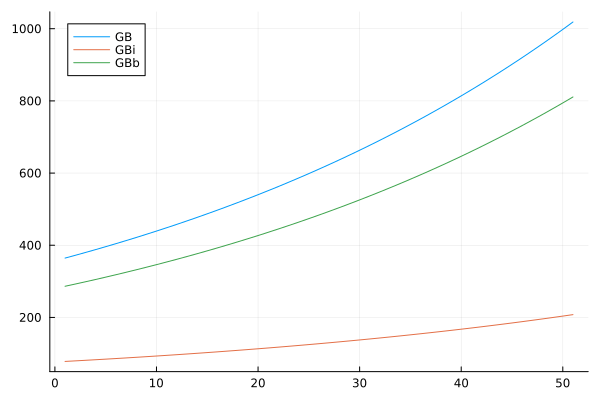
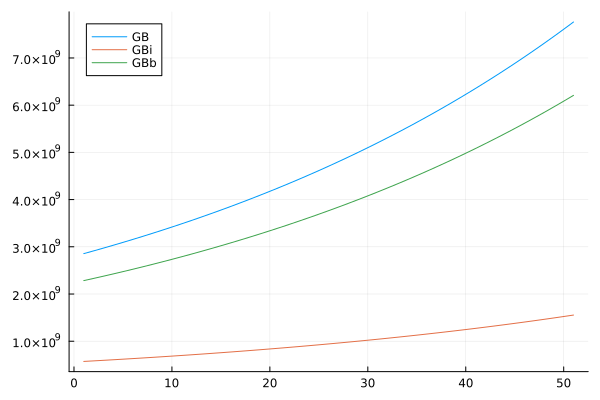
ver. 0.2.3

diff --git a/README.md b/README.md
@@ -1,7 +1,7 @@
 
 **汎用的なSFCモデルを目指す**
 
-- [課題](#課題)
+- [課題リスト。再現したいができていない性質。](#課題リスト再現したいができていない性質)
 - [TEM](#tem)
 - [BSM](#bsm)
 - [式一覧](#式一覧)
@@ -9,8 +9,8 @@
 - [再現されるか確かめたい現象](#再現されるか確かめたい現象)
 - [政策の変化に対してどう反応するか](#政策の変化に対してどう反応するか)
 
-# 課題
-政府債務残高対GDP比が大きすぎる問題。資産への税率が低い？キャピタルゲインへの税率が低い？投資家の消費性向が低い？
+# 課題リスト。再現したいができていない性質。
+- 政府債務残高対GDP比が大きすぎる問題。資産への税率が低い？キャピタルゲインへの税率が低い？投資家の消費性向が低い？
 
 # TEM
 |                            | 労働者(経常)  | 労働者(資本)  |   投資家(経常)    |   投資家(資本)   |  企業(経常)   |   企業(資本)   |   民間金融機関    |     統合政府     | 合計 |
@@ -78,8 +78,9 @@
 - $T_{af}=\epsilon_6K_{f-1}$
 - $T_a=T_{aw}+T_{ai}+T_{af}$
 - $P=C+C_a+G+I-W_f-T_v-T_{ff}-T_{af}-r_LL_{f-1}$
-- $P_i=\{\zeta_1(P-I)+\zeta_2(M_{f-1}-L_{f-1})\}\frac{E_{i-1}}{E_{-1}}$
-- $P_b=\{\zeta_1(P-I)+\zeta_2(M_{f-1}-L_{f-1})\}\frac{E_{b-1}}{E_{-1}}$
+- $TD = \zeta_1(P-I)+\zeta_2(M_{f-1}-L_{f-1})$
+- $P_i=TD\frac{E_{i-1}}{E_{-1}}$
+- $P_b=TD\frac{E_{b-1}}{E_{-1}}$
 - $P_f=P-P_i-P_b$
 - $IT=\theta_1 P_b + \theta_2 NL_{b-1}$
 - $T_{ii}=\epsilon_4(P_i+IT+r_{GB}GB_{i-1})$
@@ -130,7 +131,7 @@ $$
 \end{pmatrix}
 \begin{pmatrix}
   0 \\
-  \frac{\zeta(P_{-1}-I_{-1})}{E_{-1}} \\
+  \frac{TD}{E_{-1}} \\
   r_{GB}
 \end{pmatrix}V_i^e
 $$
@@ -158,7 +159,7 @@ $$
   \lambda_{51} & \lambda_{52}
 \end{pmatrix}
 \begin{pmatrix}
-  \frac{\zeta(P_{-1}-I_{-1})}{E_{-1}} \\
+  \frac{TD}{E_{-1}} \\
   r_{GB}
 \end{pmatrix}V_b^e
 $$
@@ -206,7 +207,7 @@ $$
 - $\gamma=0.02$
 - $\delta=0.65$
 - $(\epsilon_1, \epsilon_2, \epsilon_3, \epsilon_4, \epsilon_5, \epsilon_6, \epsilon_7, \epsilon_8)=(0.3,0.1,0.2,0.2, 0.03, 0.02, 0.2, 0.01)$
-- $\zeta=0.3$
+- $\zeta_1, \zeta_2 =0.3, 0.05$
 - $(\eta_1,\eta_2,\eta_3,\eta_4,\eta_5)=(5,0.1,0.3,0.5,0.01)$
 - $(\theta_1, \theta_2)=(0.3, 0.2)$
 - $(\lambda_V, \lambda_w)=(0.5, 0.5)$
